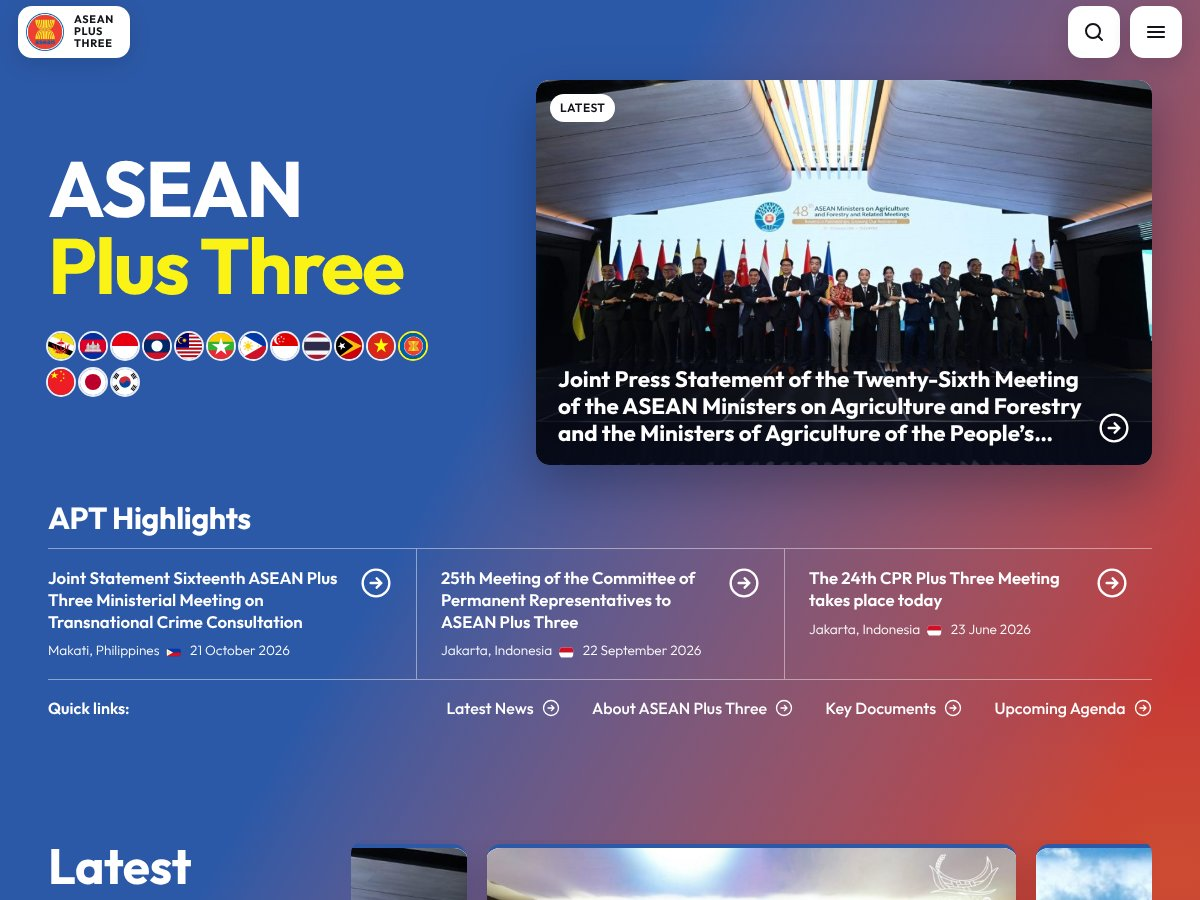
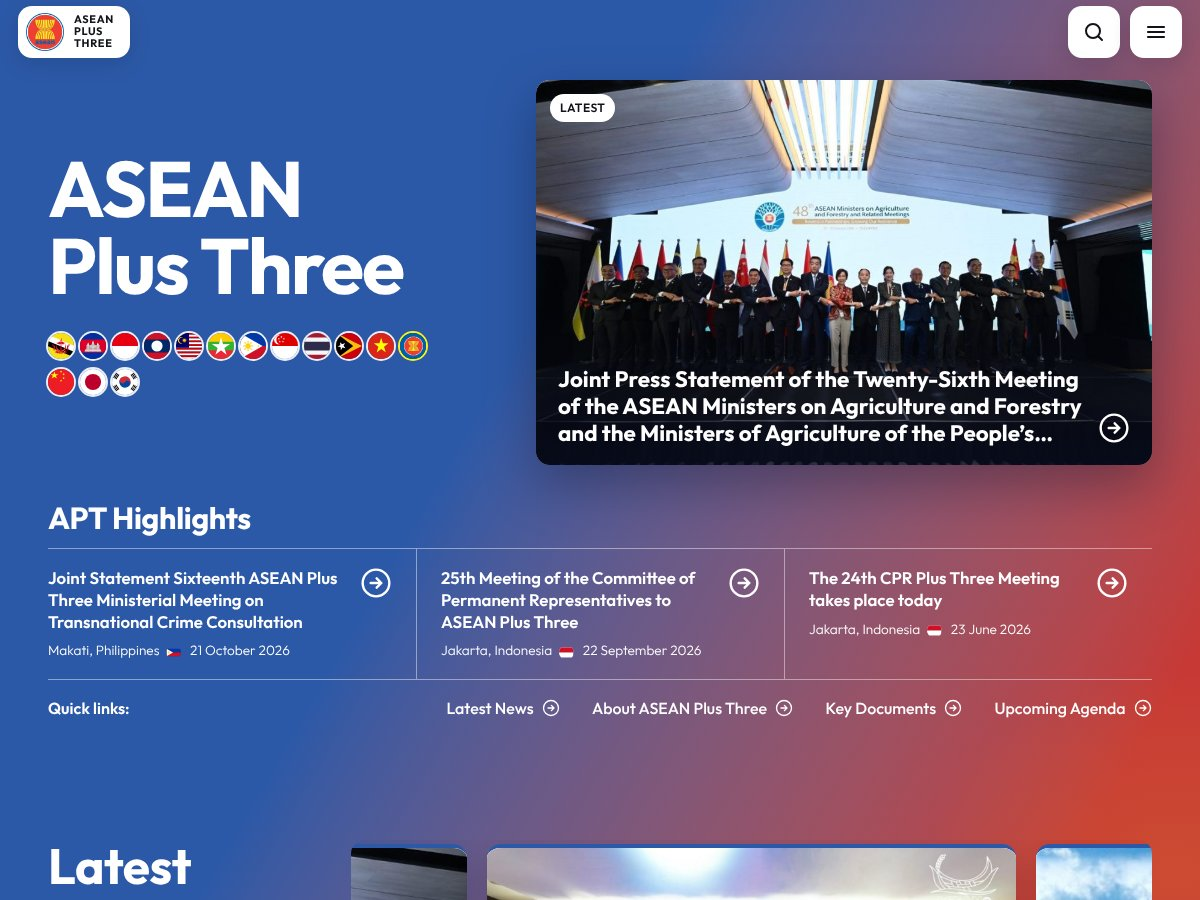
Home hero: 'Plus Three' in white
The title reads all white; the flag line-up underneath carries the
colour. Theme screenshot refreshed.

Claude-Session: https://claude.ai/code/session_01XoHtnNbUGgqr2K7nBi3oKd

Changed region(s): [[0.0308, 0.2489, 0.3392, 0.3422]]

diff --git a/assets/css/apt-design.css b/assets/css/apt-design.css
@@ -611,7 +611,7 @@ html:has(.apt-menu[open]) { overflow: hidden; }
 	color: var(--on-grad);
 }
 /* ASEAN yellow: the brand red is unreadable on the red end of the gradient */
-.apt-hero-title span { display: block; color: var(--apt-yellow); }
+.apt-hero-title span { display: block; color: var(--on-grad); } /* all white: the flag line-up below carries the colour */
 /* Flag line-up under the title: ASEAN group, then the Plus Three group */
 .apt-hero-flags { display: flex; flex-wrap: wrap; align-items: center; gap: 10px 18px; margin-top: clamp(20px, 2.5vw, 30px); }
 .apt-flag-group { display: flex; gap: 6px; list-style: none; margin: 0; padding: 0; }
